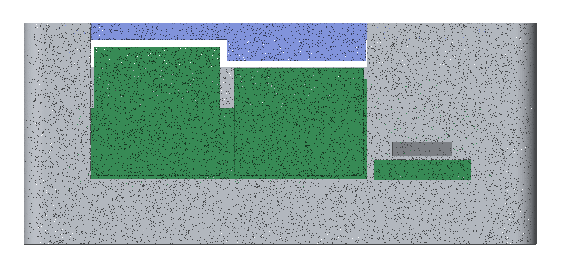
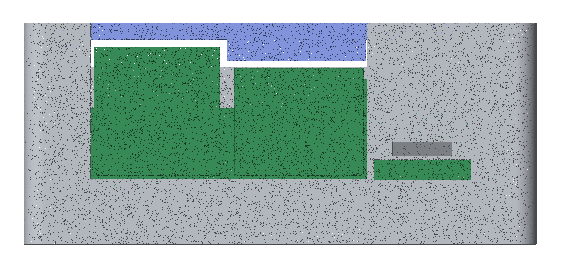
fix(case): 1 mm 45° flare at each standoff's root
No sharp inside corner where the standoff meets the back plate, so the
joint is stronger.

Claude-Session: https://claude.ai/code/session_01NRMLBL8rMmYPjSMv7WpHWL

diff --git a/case/tests/test_base.py b/case/tests/test_base.py
@@ -205,6 +205,16 @@ class TestDefaultBase:
             assert not solid(base, hx + 3.3, hy, 6.5)
             assert not solid(base, hx + 2.7, hy, 7.2)
 
+    def test_flares_each_standoff_into_the_plate_at_45_degrees(self, base):
+        c = P.STANDOFF_ROOT_CHAMFER
+        r = P.STANDOFF_D / 2
+        assert c == pytest.approx(1.0)
+        for hx, hy in P.SCREW_HOLES:
+            d = 1 if hx < 27.5 else -1  # probe toward the middle, away from the walls
+            assert solid(base, hx + d * (r + 0.5), hy, P.PLATE_T + 0.3)  # in the flare
+            assert not solid(base, hx + d * (r + 0.5), hy, P.PLATE_T + 0.7)  # above it
+            assert not solid(base, hx + d * (r + c + 0.1), hy, P.PLATE_T + 0.05)  # Ø8
+
     def test_has_a_countersunk_through_hole_under_each_standoff(self, base):
         for hx, hy in P.SCREW_HOLES:
             for cz in (0.05, 1.0, 4.0, 6.9):

diff --git a/case/p4_case/base.py b/case/p4_case/base.py
@@ -77,7 +77,15 @@ def _standoffs() -> Part:
         )
         for x, y in P.SCREW_HOLES
     ]
-    return Part() + posts
+    # 45° flare at the root: the post widens by STANDOFF_ROOT_CHAMFER into the plate
+    c = P.STANDOFF_ROOT_CHAMFER
+    r = P.STANDOFF_D / 2
+    flares = [
+        Pos(x, y, board_z(P.PLATE_T) - EPS)
+        * Cone(r + c + EPS, r, c + EPS, align=(Align.CENTER, Align.CENTER, Align.MIN))
+        for x, y in P.SCREW_HOLES
+    ]
+    return Part() + posts + flares
 
 
 def _screw_holes() -> Part:

diff --git a/case/p4_case/params.py b/case/p4_case/params.py
@@ -43,6 +43,8 @@ REBATE_W = WALL / 2  # 5.2: the rebate takes the inner half of the wall
 
 # --- board screws (4, 5.1a) ---
 STANDOFF_D = 6.0
+# 45° flare where each standoff meets the plate: no sharp root corner, a stronger joint
+STANDOFF_ROOT_CHAMFER = 1.0
 SCREW_HOLE_D = 2.2  # pilot hole: an M2.5 screw cuts its own thread in the standoff
 CSK_D = 5.4  # countersink diameter at the back face: M2.5 flat head (Ø5.0) sunk 0.2 below flush
 CSK_ANGLE = 90.0

diff --git a/docs/superpowers/specs/2026-11-02-p4-case-design.md b/docs/superpowers/specs/2026-11-02-p4-case-design.md
@@ -154,6 +154,7 @@ outer vertical edges are rounded.
   builder checks this against the top of the board model; the nearest parts are the FPC socket near (3.5, 57.3) and the
   large capacitor near (51.5, 24.3).
 - The standoffs' top faces stay flat rings that the board rests on.
+- Each standoff flares into the plate with a 1 mm 45° chamfer at its root: no sharp inside corner, a stronger joint.
 
 ### 5.2 Base: walls
 
